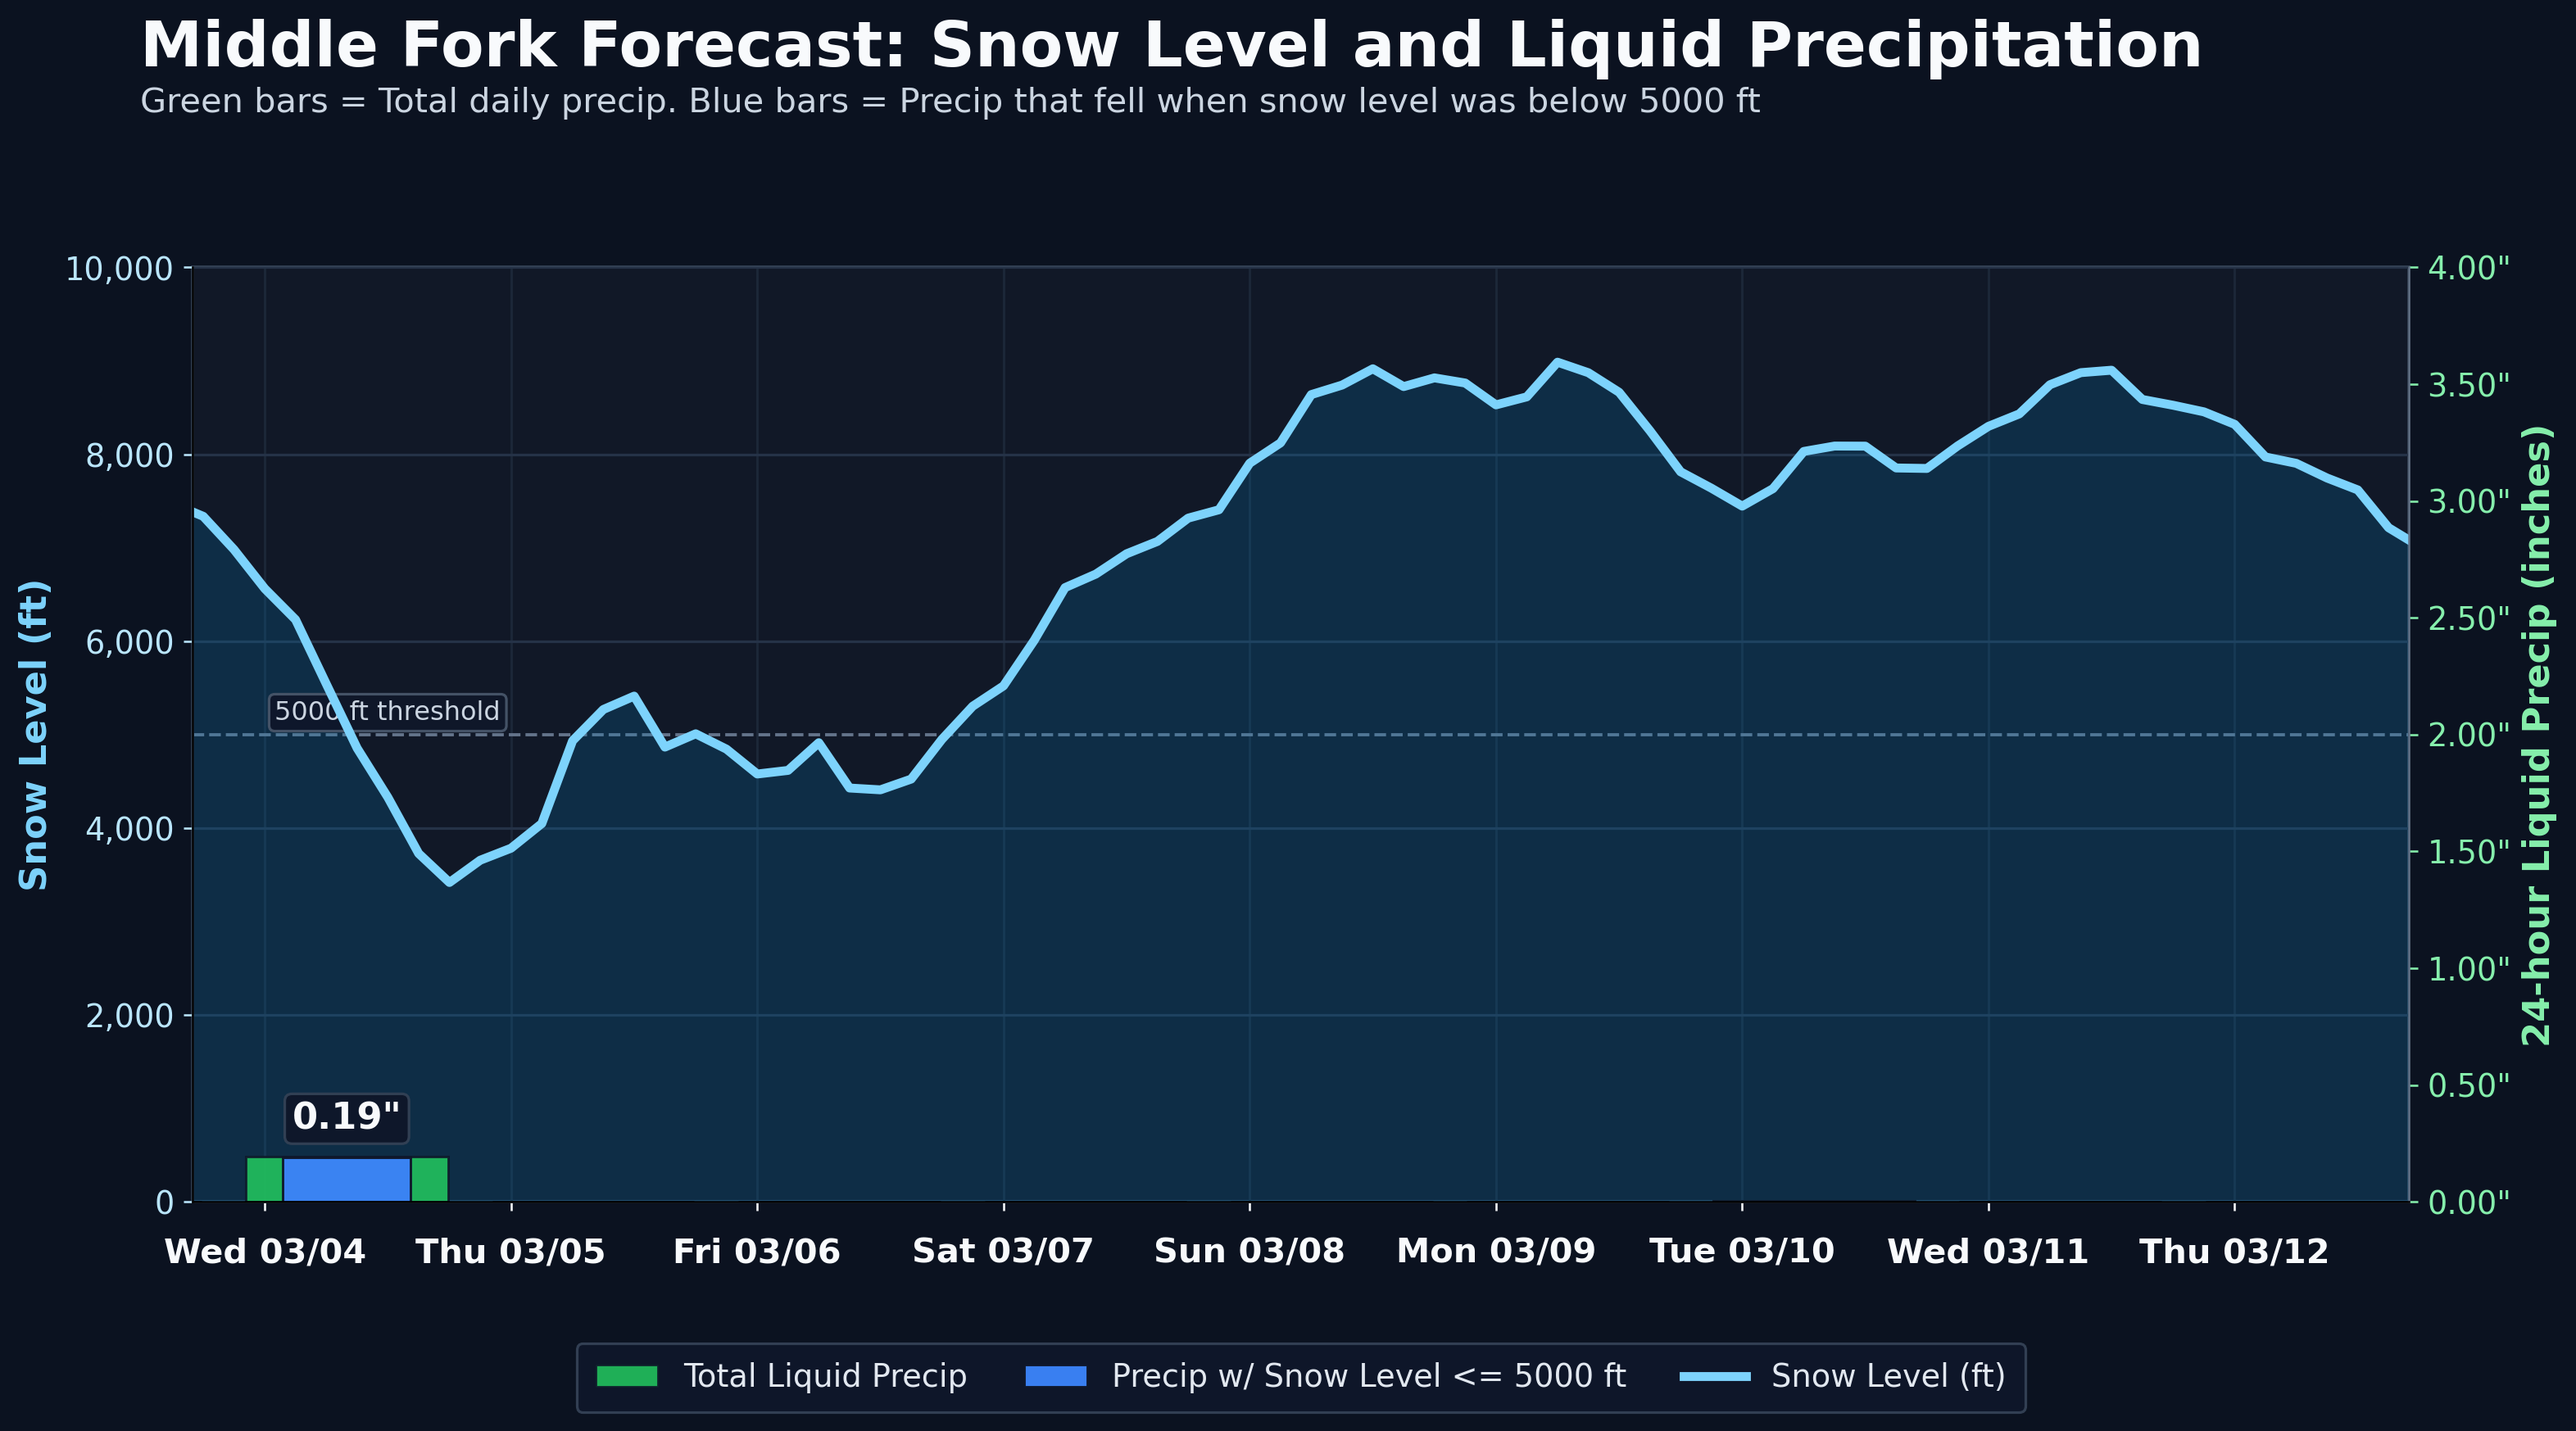
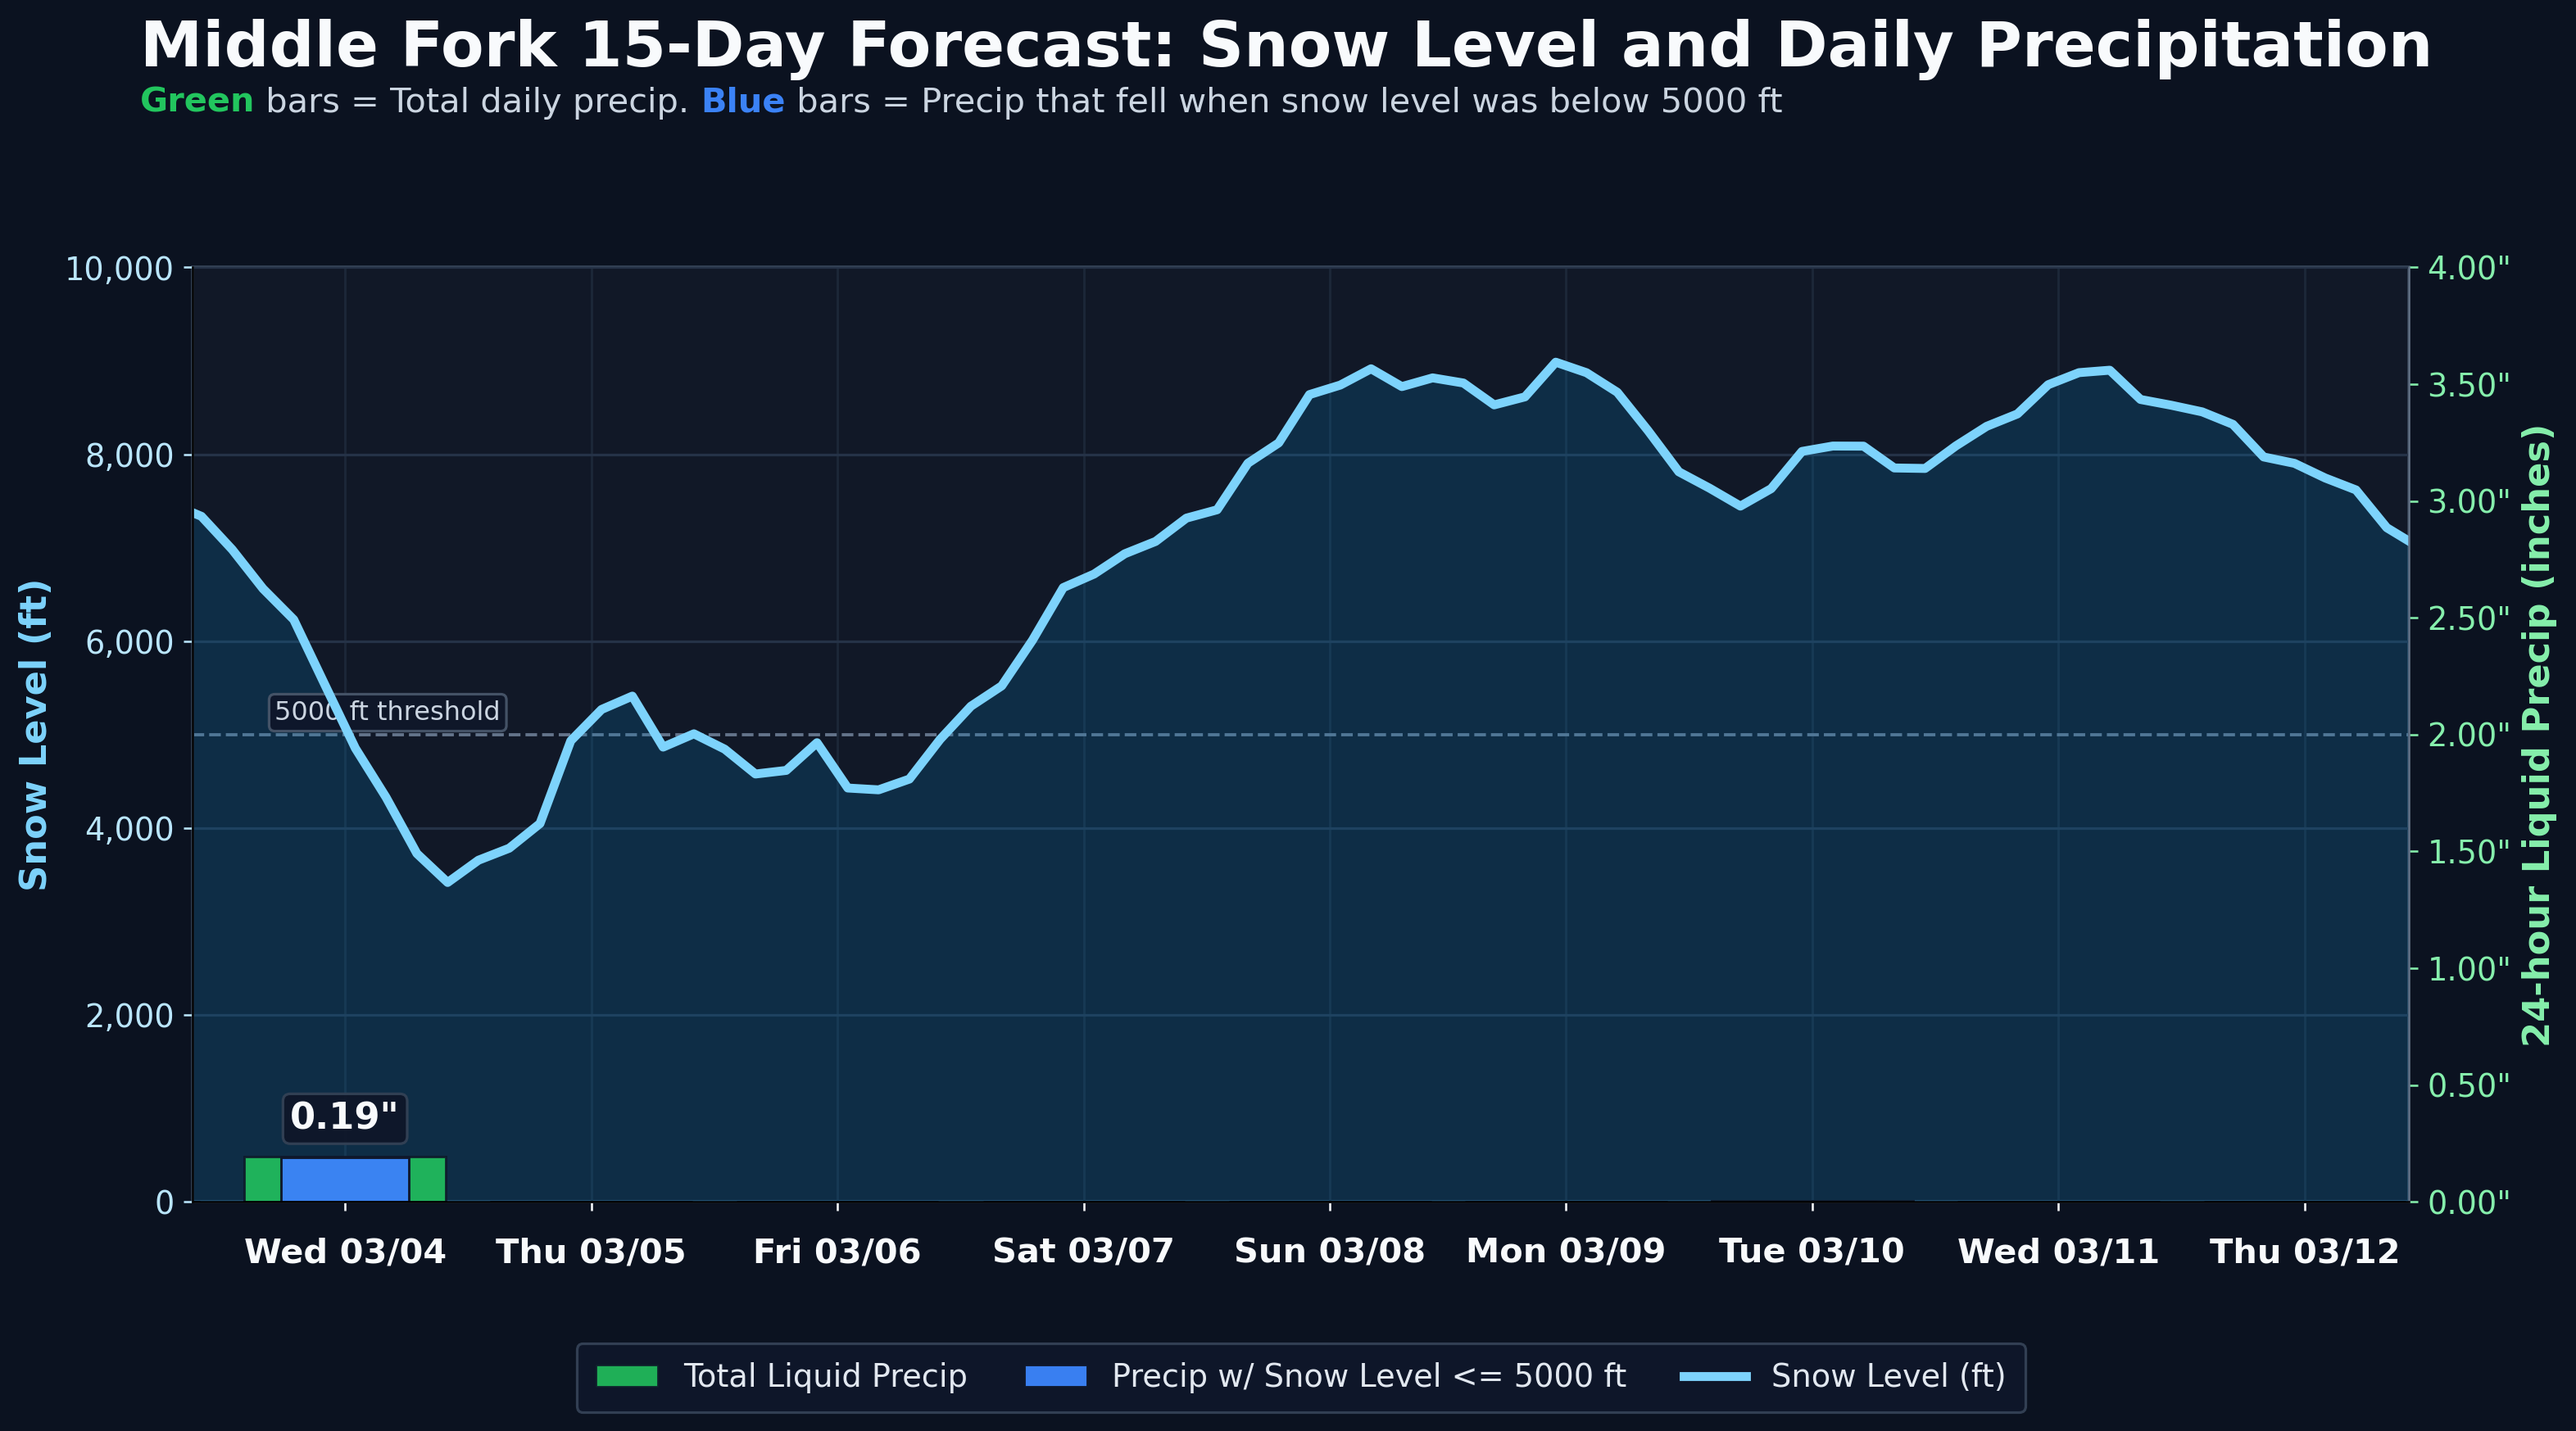
Completel with tick marks in x-axis in the correct spot.

Changed region(s): [[0.0623, 0.0, 0.9351, 0.0927], [0.0623, 0.8655, 0.9351, 0.8964], [0.0935, 0.7728, 0.1559, 0.8037]]

diff --git a/snow_level_plotter.py b/snow_level_plotter.py
@@ -189,7 +189,7 @@ def create_plot(df, model, output_filename='qpf_graph.png', range_days=9):
     grid_color = '#253247'
 
     fig.suptitle(
-        'Middle Fork Forecast: Snow Level and Liquid Precipitation',
+        'Middle Fork 15-Day Forecast: Snow Level and Daily Precipitation',
         x=0.06,
         y=0.985,
         ha='left',
@@ -198,15 +198,30 @@ def create_plot(df, model, output_filename='qpf_graph.png', range_days=9):
         fontweight='bold',
         color=text_color,
     )
-    fig.text(
-        0.06,
-        0.94,
-        'Green bars = Total daily precip. Blue bars = Precip that fell when snow level was below 5000 ft',
-        ha='left',
-        va='top',
-        fontsize=13,
-        color=subtext_color,
-    )
+    subtitle_x = 0.06
+    subtitle_y = 0.94
+    subtitle_parts = [
+        ('Green', total_bar_color, 'bold'),
+        (' bars = Total daily precip. ', subtext_color, 'normal'),
+        ('Blue', cold_bar_color, 'bold'),
+        (' bars = Precip that fell when snow level was below 5000 ft', subtext_color, 'normal'),
+    ]
+    current_x = subtitle_x
+    for text_part, color_part, weight_part in subtitle_parts:
+        txt = fig.text(
+            current_x,
+            subtitle_y,
+            text_part,
+            ha='left',
+            va='top',
+            fontsize=13,
+            fontweight=weight_part,
+            color=color_part,
+        )
+        fig.canvas.draw()
+        bbox = txt.get_window_extent(renderer=fig.canvas.get_renderer())
+        fig_width_px = fig.get_size_inches()[0] * fig.dpi
+        current_x += bbox.width / fig_width_px
 
     snow_series = df[snow_level_col].dropna()
     if not snow_series.empty:
@@ -292,7 +307,12 @@ def create_plot(df, model, output_filename='qpf_graph.png', range_days=9):
             zorder=5,
         )
 
-    ax1.xaxis.set_major_locator(mdates.HourLocator(byhour=12))
+    tick_index = daily_df.index[(daily_df.index >= xaxis_lowlimit - pd.Timedelta(days=1)) &
+                                (daily_df.index <= xaxis_uplimit + pd.Timedelta(days=1))]
+    if len(tick_index) > 0:
+        ax1.xaxis.set_major_locator(ticker.FixedLocator(mdates.date2num(tick_index.to_pydatetime())))
+    else:
+        ax1.xaxis.set_major_locator(mdates.HourLocator(byhour=12))
     ax1.xaxis.set_major_formatter(mdates.DateFormatter("%a %m/%d"))
     x_label_rotation = 45 if range_days is None else 0
     ax1.tick_params(axis='x', labelsize=13, colors=text_color, pad=10, labelrotation=x_label_rotation)
